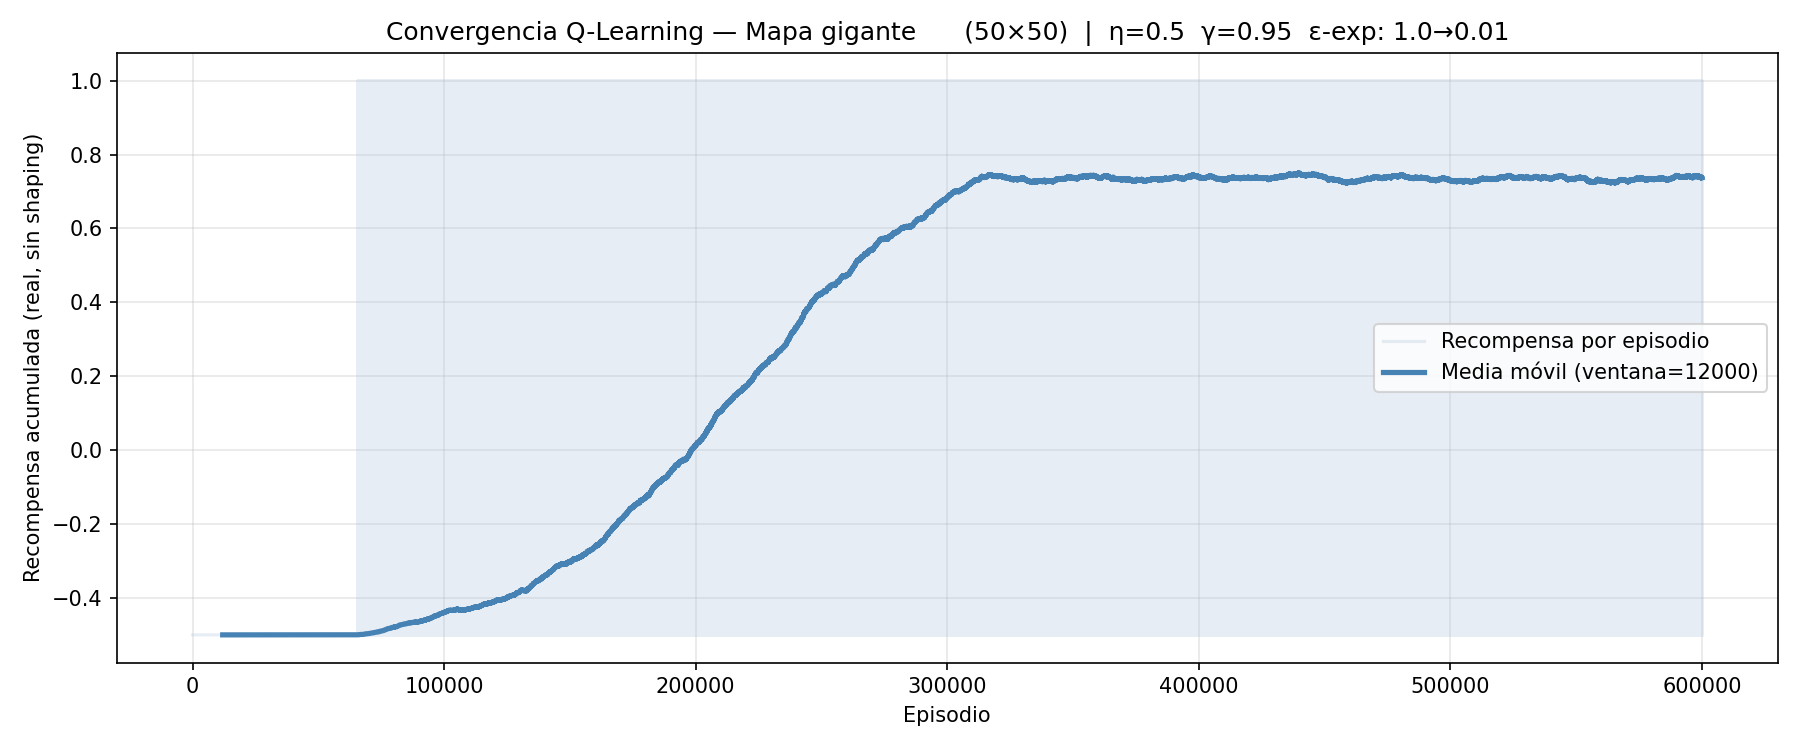
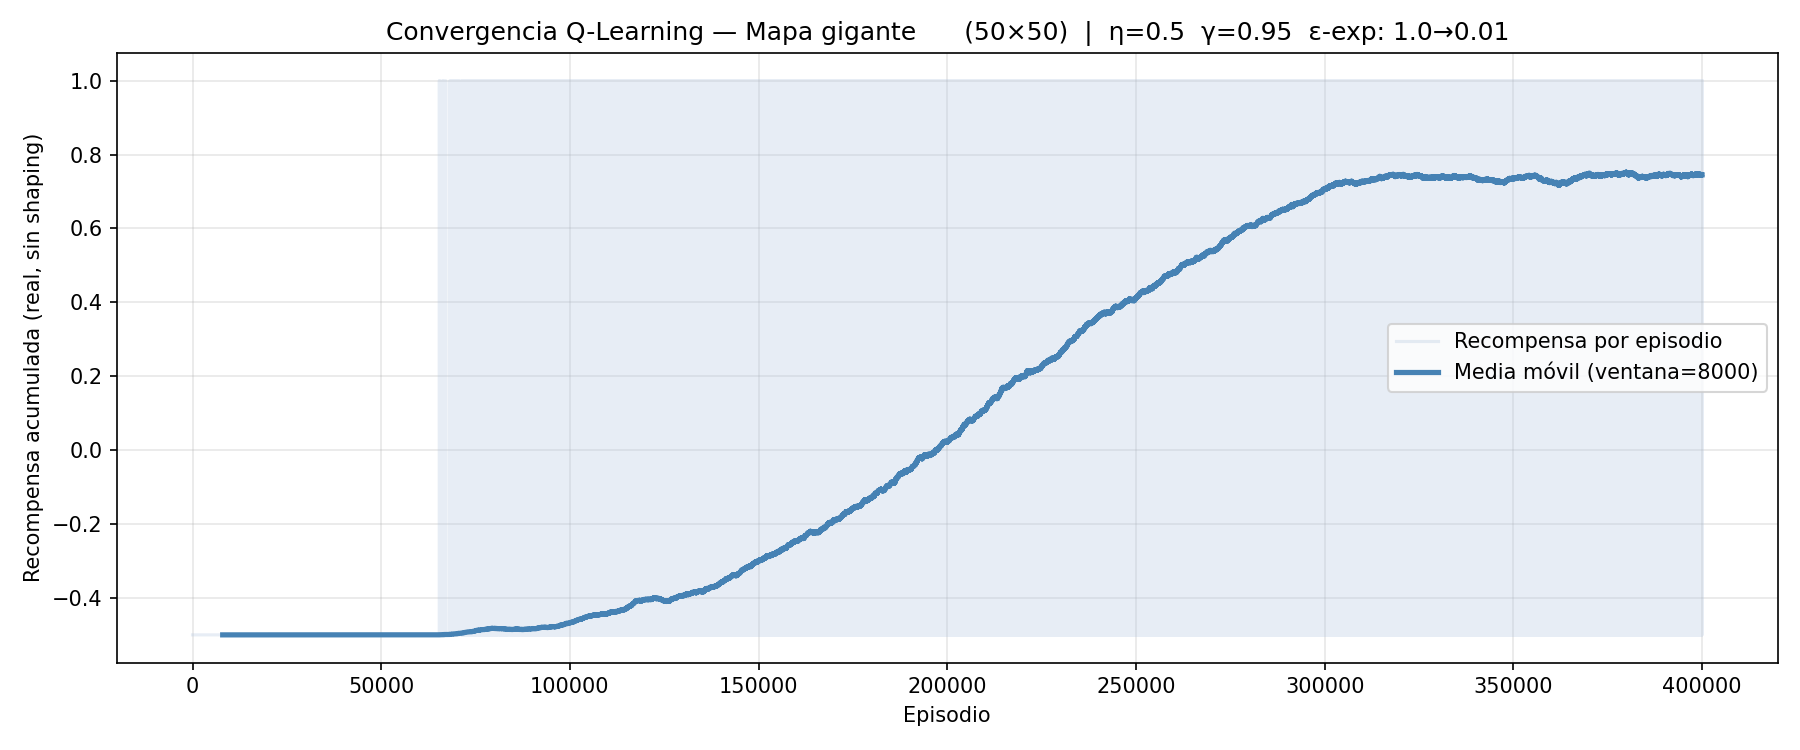
mapa 5 400.000 episodios. Zoom out para que se vea el mapa entero

diff --git a/simuladores_gymnasium/practica_gymnasium.py b/simuladores_gymnasium/practica_gymnasium.py
@@ -312,6 +312,23 @@ env_demo = BoxToDiscreteObservation(env_demo_raw)
 
 s, _ = env_demo.reset()
 env_demo.render()   # Inicializa la ventana pygame (window, cellWidth, etc.)
+
+# Ajuste automático de zoom out para mapas grandes (como map5)
+env_inner = env_demo_raw.unwrapped
+if COLS >= 40:
+    # Forzamos un tamaño máximo para que quepa verticalmente en pantallas comunes
+    # y recalculamos el tamaño de la celda
+    MAX_H = 800
+    aspect_ratio = env_inner.inFile.shape[1] / env_inner.inFile.shape[0]
+    
+    env_inner.WINDOW_HEIGHT = MAX_H
+    env_inner.WINDOW_WIDTH = int(MAX_H * aspect_ratio)
+    env_inner.cellHeight = env_inner.WINDOW_HEIGHT / env_inner.inFile.shape[0]
+    env_inner.cellWidth = env_inner.WINDOW_WIDTH / env_inner.inFile.shape[1]
+    
+    # Redimensionar la ventana de PyGame ya creada
+    pygame.display.set_mode((env_inner.WINDOW_WIDTH, env_inner.WINDOW_HEIGHT))
+
 time.sleep(1.0)
 
 # ---------------------------------------------------------------------------
@@ -395,7 +412,6 @@ def animar_movimiento(env_inner, pos_desde, pos_hasta, n_frames=20, fps=60):
 print("Ejecutando solución...")
 terminado = False
 paso = 0
-env_inner = env_demo_raw.unwrapped   # GridWorldEnv sin wrappers (acceso a pygame)
 
 # Límite de pasos de la demo: proporcional a la distancia Manhattan inicial al objetivo.
 # Al menos 300 pasos y como máximo 2000 para mapas muy grandes.
